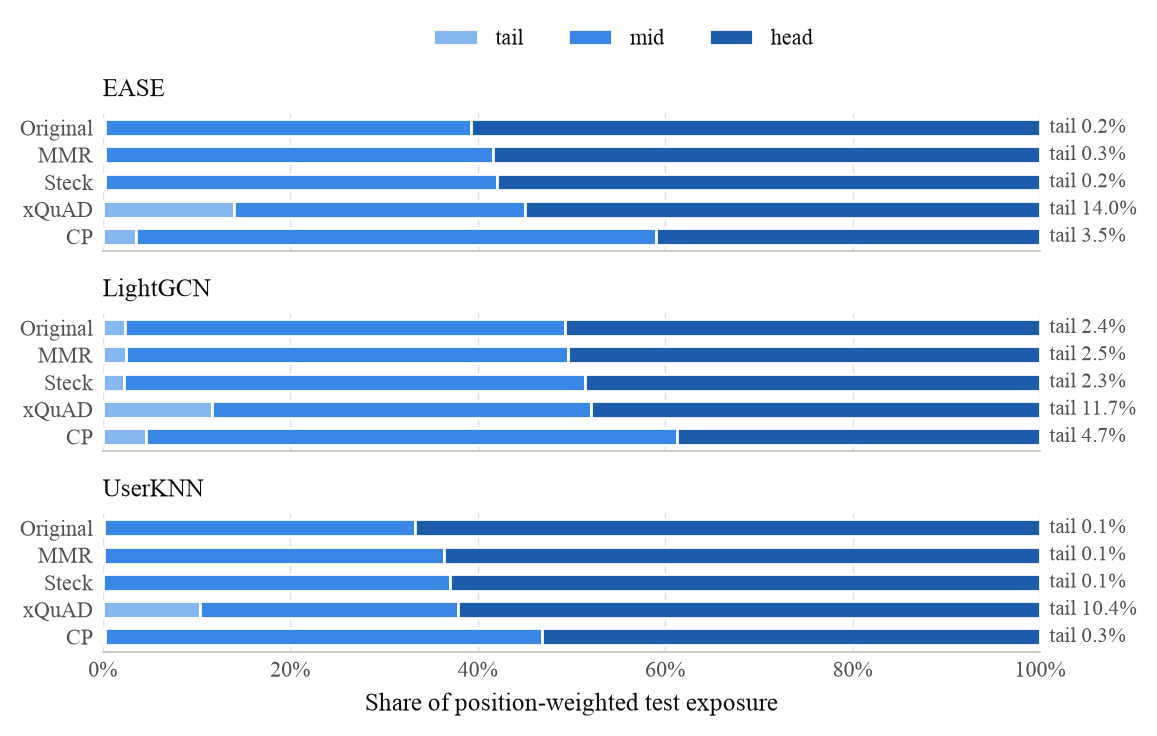
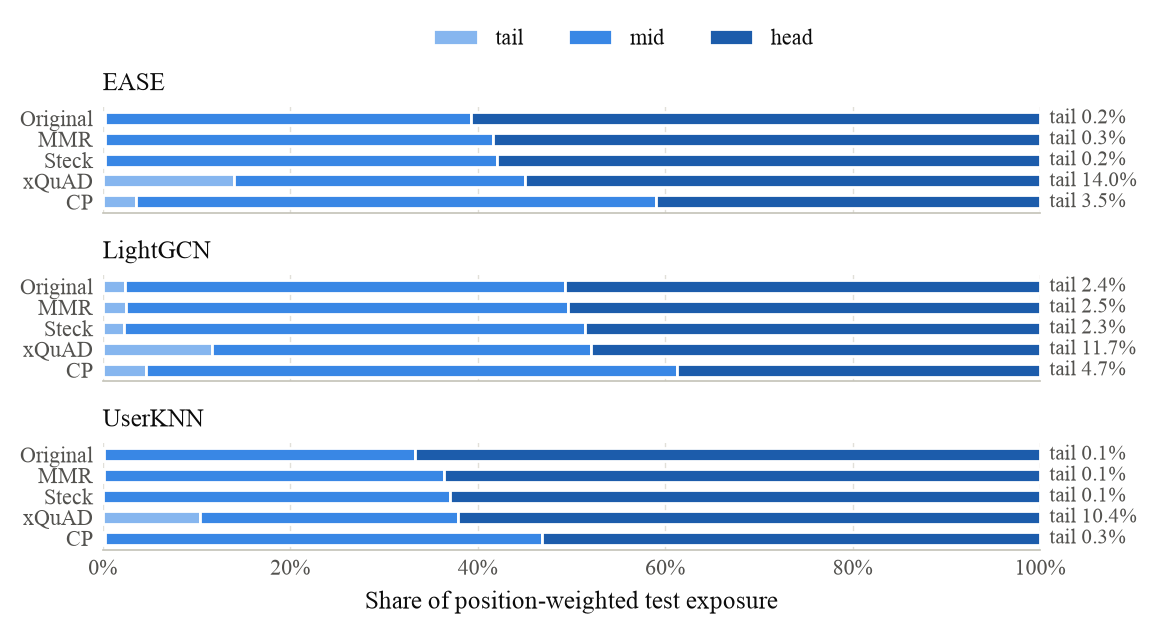
fix(t3.4): clean up figures to fit pages and add more evidence for write-up

diff --git a/scripts/tradeoff.py b/scripts/tradeoff.py
@@ -2,11 +2,12 @@ import json
 
 import numpy as np
 import pandas as pd
-from source.analysis.groups import TASTES
 from rerank import BASES, FOLDER, RERANKERS
 from source.data import genres, scores, split
+from source.reranking.greedy import shortlist
+from source.analysis.groups import TASTES, TIERS
 from source.metrics.accuracy import DISCOUNT, quality, top
-from source.metrics.societal import exposure, gini, gru, ild, miscalibration, parity, tail, tastes, tiers, treatment, upd
+from source.metrics.societal import entropy, exposure, gini, gru, ild, miscalibration, parity, profile, spread, tail, tastes, tiers, treatment, upd
 
 
 # every metric of a set of lists where hidden is what the lists could not show and the tail is the protected item group
@@ -42,8 +43,29 @@ def tables():
     return pd.DataFrame(curves), pd.DataFrame(tests)
 
 
+# what each model's top 100 holds and how wide its genres run since that bounds what a re-ranker can reach on test
+def evidence(base):
+    values, users, items = scores(base)
+    masks, shares = split(users, items), spread(genres(items))
+    seen = masks["train"] | masks["valid"]
+    tier, pool = tiers(seen), shortlist(values, seen)[0]
+    history, tails = profile(seen, shares), (tier[pool] == 2).sum(axis=1)
+    row = {"model": base} | {f"pool_{name}": (tier[pool] == k).mean() for k, name in enumerate(TIERS)}
+    row |= {f"history_{name}": share for name, share in zip(TIERS, profile(seen, np.eye(3)[tier]).mean(axis=0))}
+    row |= {"tail_movies": tails.mean(), "no_tail": (tails == 0).mean(), "entropy_history": entropy(history).mean()}
+    lists = {"original": top(values, seen), "mmr": np.load(FOLDER / "ranked" / f"{base}-MMR.npz")["test"]}
+    for name, ranked in lists.items():
+        mix = shares[ranked].mean(axis=1)
+        covered = ((mix > 0) & (history > 0)).sum(axis=1) / (history > 0).sum(axis=1)
+        row |= {f"entropy_{name}": entropy(mix).mean(), f"genres_{name}": covered.mean()}
+    return {name: value if name == "model" else round(float(value), 4) for name, value in row.items()}
+
+
 if __name__ == "__main__":
     curves, tests = tables()
     curves.to_csv(FOLDER / "curves.csv", index=False)
     tests.to_csv(FOLDER / "test.csv", index=False)
+    found = pd.DataFrame([evidence(base) for base in BASES])
+    found.to_csv(FOLDER / "evidence.csv", index=False)
     print(tests.to_string(index=False))
+    print(found.to_string(index=False))

diff --git a/scripts/rerank_groups.py b/scripts/rerank_groups.py
@@ -41,13 +41,15 @@ def shares(ranked, count, group):
     return {"exposure": exposed[group].sum() / exposed.sum(), "coverage": (shown[group] > 0).mean()}
 
 
-def userwise(groups, before, after):
+# group means of history and test size show whether a grouping still mixes in activity
+def userwise(groups, sizes, before, after):
     for dimension, (labels, group) in groups.items():
         for k, label in enumerate(labels):
             rows = group == k
+            info = {"side": "user", "dimension": dimension, "group": label, "size": int(rows.sum())}
+            info |= {name: values[rows].mean() for name, values in sizes.items()}
             for metric in before:
-                info = {"side": "user", "dimension": dimension, "group": label, "size": int(rows.sum()), "metric": metric}
-                yield info | paired(before[metric][rows], after[metric][rows])
+                yield info | {"metric": metric} | paired(before[metric][rows], after[metric][rows])
 
 
 def itemwise(groups, original, ranked, relevant):
@@ -69,17 +71,18 @@ def tables():
         masks, flags = split(users, items), genres(items)
         seen, relevant = masks["train"] | masks["valid"], masks["test"]
         crowds, shelves = people(seen, users), movies(seen, items)
+        sizes = {"history": seen.sum(axis=1), "tests": relevant.sum(axis=1)}
         original = top(values, seen)
         before = card(original, seen, relevant, flags)
         for name in RERANKERS:
             ranked = np.load(FOLDER / "ranked" / f"{base}-{name}.npz")["test"]
             lam = json.loads((FOLDER / "metrics" / f"{base}-{name}.json").read_text())["lambda"]
-            found = [*userwise(crowds, before, card(ranked, seen, relevant, flags)), *itemwise(shelves, original, ranked, relevant)]
+            found = [*userwise(crowds, sizes, before, card(ranked, seen, relevant, flags)), *itemwise(shelves, original, ranked, relevant)]
             rows += [{"model": base, "reranker": name, "lambda": lam} | row for row in found]
     table = pd.DataFrame(rows)
     tested = table.p.notna()
     table.loc[tested, "q"] = false_discovery_control(table.p[tested])
-    return table.round({"before": 4, "after": 4, "change": 4})
+    return table.round({"before": 4, "after": 4, "change": 4, "history": 1, "tests": 1})
 
 
 if __name__ == "__main__":

diff --git a/scripts/rerank_figures.py b/scripts/rerank_figures.py
@@ -55,7 +55,7 @@ def save(figure, name):
 
 # one panel per re-ranker with validation ndcg relative to no re-ranking so the 5% budget is one line for every series
 def tradeoff(curves, by, labels, name):
-    figure, axes = plt.subplots(2, 2, figsize=(6.3, 4.4))
+    figure, axes = plt.subplots(2, 2, figsize=(6.3, 3.6))
     for ax, (reranker, (metric, label, lower)) in zip(axes.flat, TARGETS.items()):
         for color, (key, text) in zip(SERIES, labels.items()):
             line = curves[(curves[by] == key) & (curves.reranker == reranker)].sort_values("lambda")
@@ -70,8 +70,7 @@ def tradeoff(curves, by, labels, name):
         ax.set_xlabel(label)
         if lower:
             ax.invert_xaxis()
-    for ax in axes[:, 0]:
-        ax.set_ylabel("Validation NDCG@10 change (%)")
+    figure.supylabel("Validation NDCG@10 change (%)", fontsize=9)
     handles = axes[0, 0].get_legend_handles_labels()
     figure.legend(*handles, loc="upper center", ncol=len(labels), frameon=False, bbox_to_anchor=(0.5, 1.03))
     figure.tight_layout(rect=(0, 0, 1, 0.97))
@@ -81,7 +80,7 @@ def tradeoff(curves, by, labels, name):
 # share of position weighted exposure per movie tier with the tail on the baseline so its growth reads from zero
 def exposure(groups, name):
     tiers = groups[(groups.dimension == "tier") & (groups.metric == "exposure")]
-    figure, axes = plt.subplots(len(BASES), 1, figsize=(6.3, 3.6), sharex=True)
+    figure, axes = plt.subplots(len(BASES), 1, figsize=(6.3, 3.1), sharex=True)
     for ax, base in zip(axes, BASES):
         frame = tiers[tiers.model == base].set_index(["reranker", "group"])
         bars = {"Original": frame.xs(next(iter(RERANKERS)))["before"]} | {NAMES[r]: frame.xs(r)["after"] for r in RERANKERS}

diff --git a/source/analysis/groups.py b/source/analysis/groups.py
@@ -6,21 +6,26 @@ TASTES = ["niche", "diverse", "blockbuster"]
 TIERS = ["head", "mid", "tail"]
 ACTIVITY = ["low", "mid-low", "mid-high", "high"]
 POPULARITY = ["long-tail", "low-mid", "high-mid", "head"]
+STRATA = 20
 
 
-# equal sized quartiles with ties ranked in id order as the qcut of 2.5 does
-def quartiles(values, ids):
+# equal sized bands with ties ranked in id order as the qcut of 2.5 does
+def bands(values, ids, count):
     rank = np.empty(len(values))
     rank[np.lexsort((ids.astype(int), values))] = np.arange(1, len(values) + 1)
-    return pd.qcut(rank, 4, labels=False)
+    return pd.qcut(rank, count, labels=False)
 
 
-# taste thirds drawn inside each activity quartile so every taste group holds the same mix of activity
+def quartiles(values, ids):
+    return bands(values, ids, 4)
+
+
+# taste thirds drawn inside twenty activity bands since inside quartiles niche users still held more test items
 def stratified(hidden, ids):
-    share, level = head(hidden), quartiles(hidden.sum(axis=1), ids)
+    share, level = head(hidden), bands(hidden.sum(axis=1), ids, STRATA)
     taste = np.empty(len(share), dtype=int)
-    for q in range(4):
-        taste[level == q] = thirds(share[level == q])
+    for band in range(STRATA):
+        taste[level == band] = thirds(share[level == band])
     return taste
 
 

diff --git a/source/metrics/societal.py b/source/metrics/societal.py
@@ -15,6 +15,11 @@ def js(p, q):
     return (kl(p, m) + kl(q, m)) / 2
 
 
+# shannon entropy of each distribution so a wider mix scores higher
+def entropy(p):
+    return -np.sum(p * np.log(np.where(p > 0, p, 1)), axis=-1)
+
+
 # share of genres two movies have in common
 def jaccard(genres):
     flags = genres.astype(np.float32)
